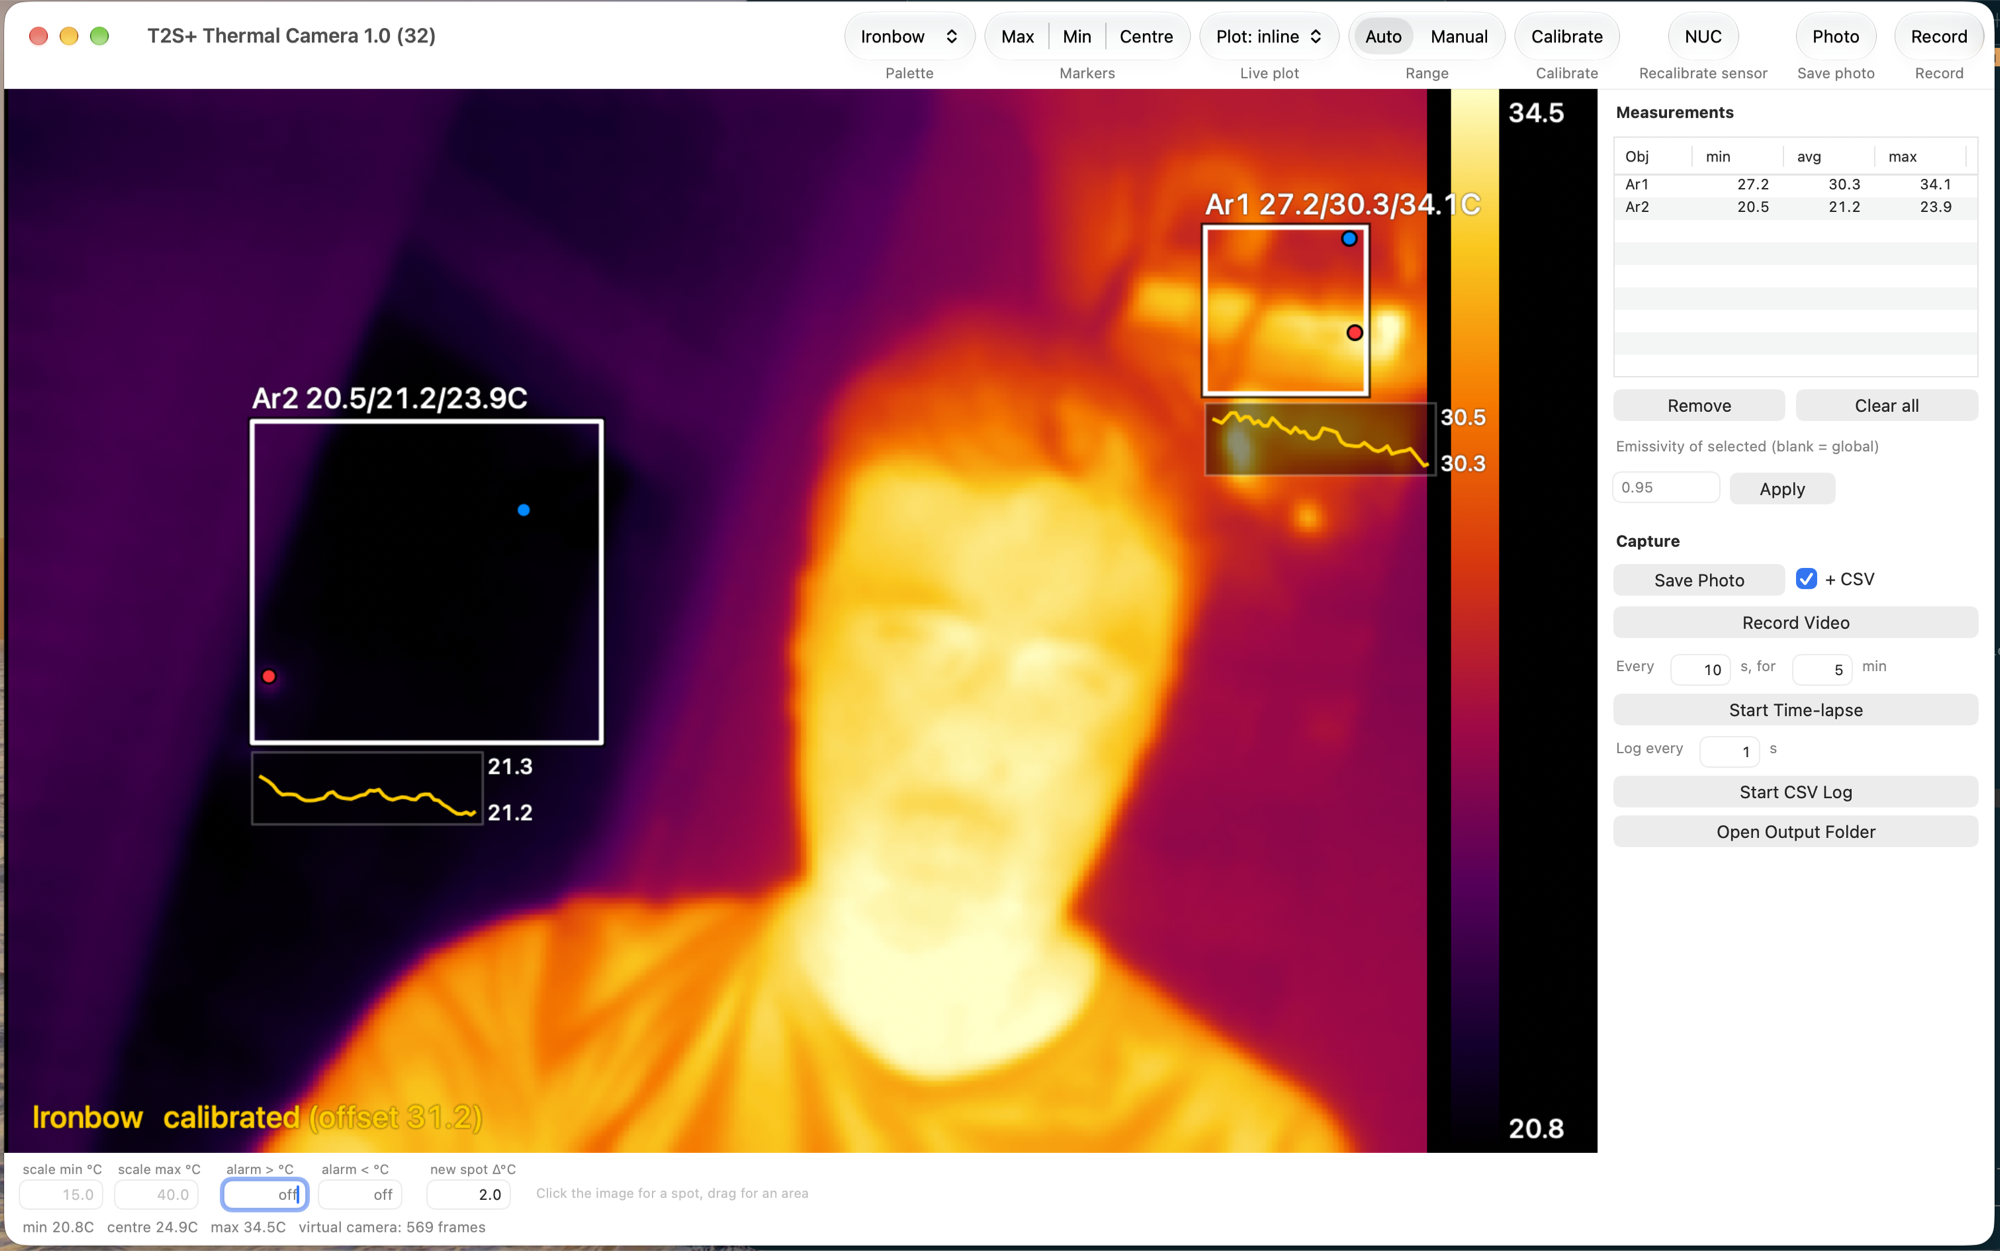
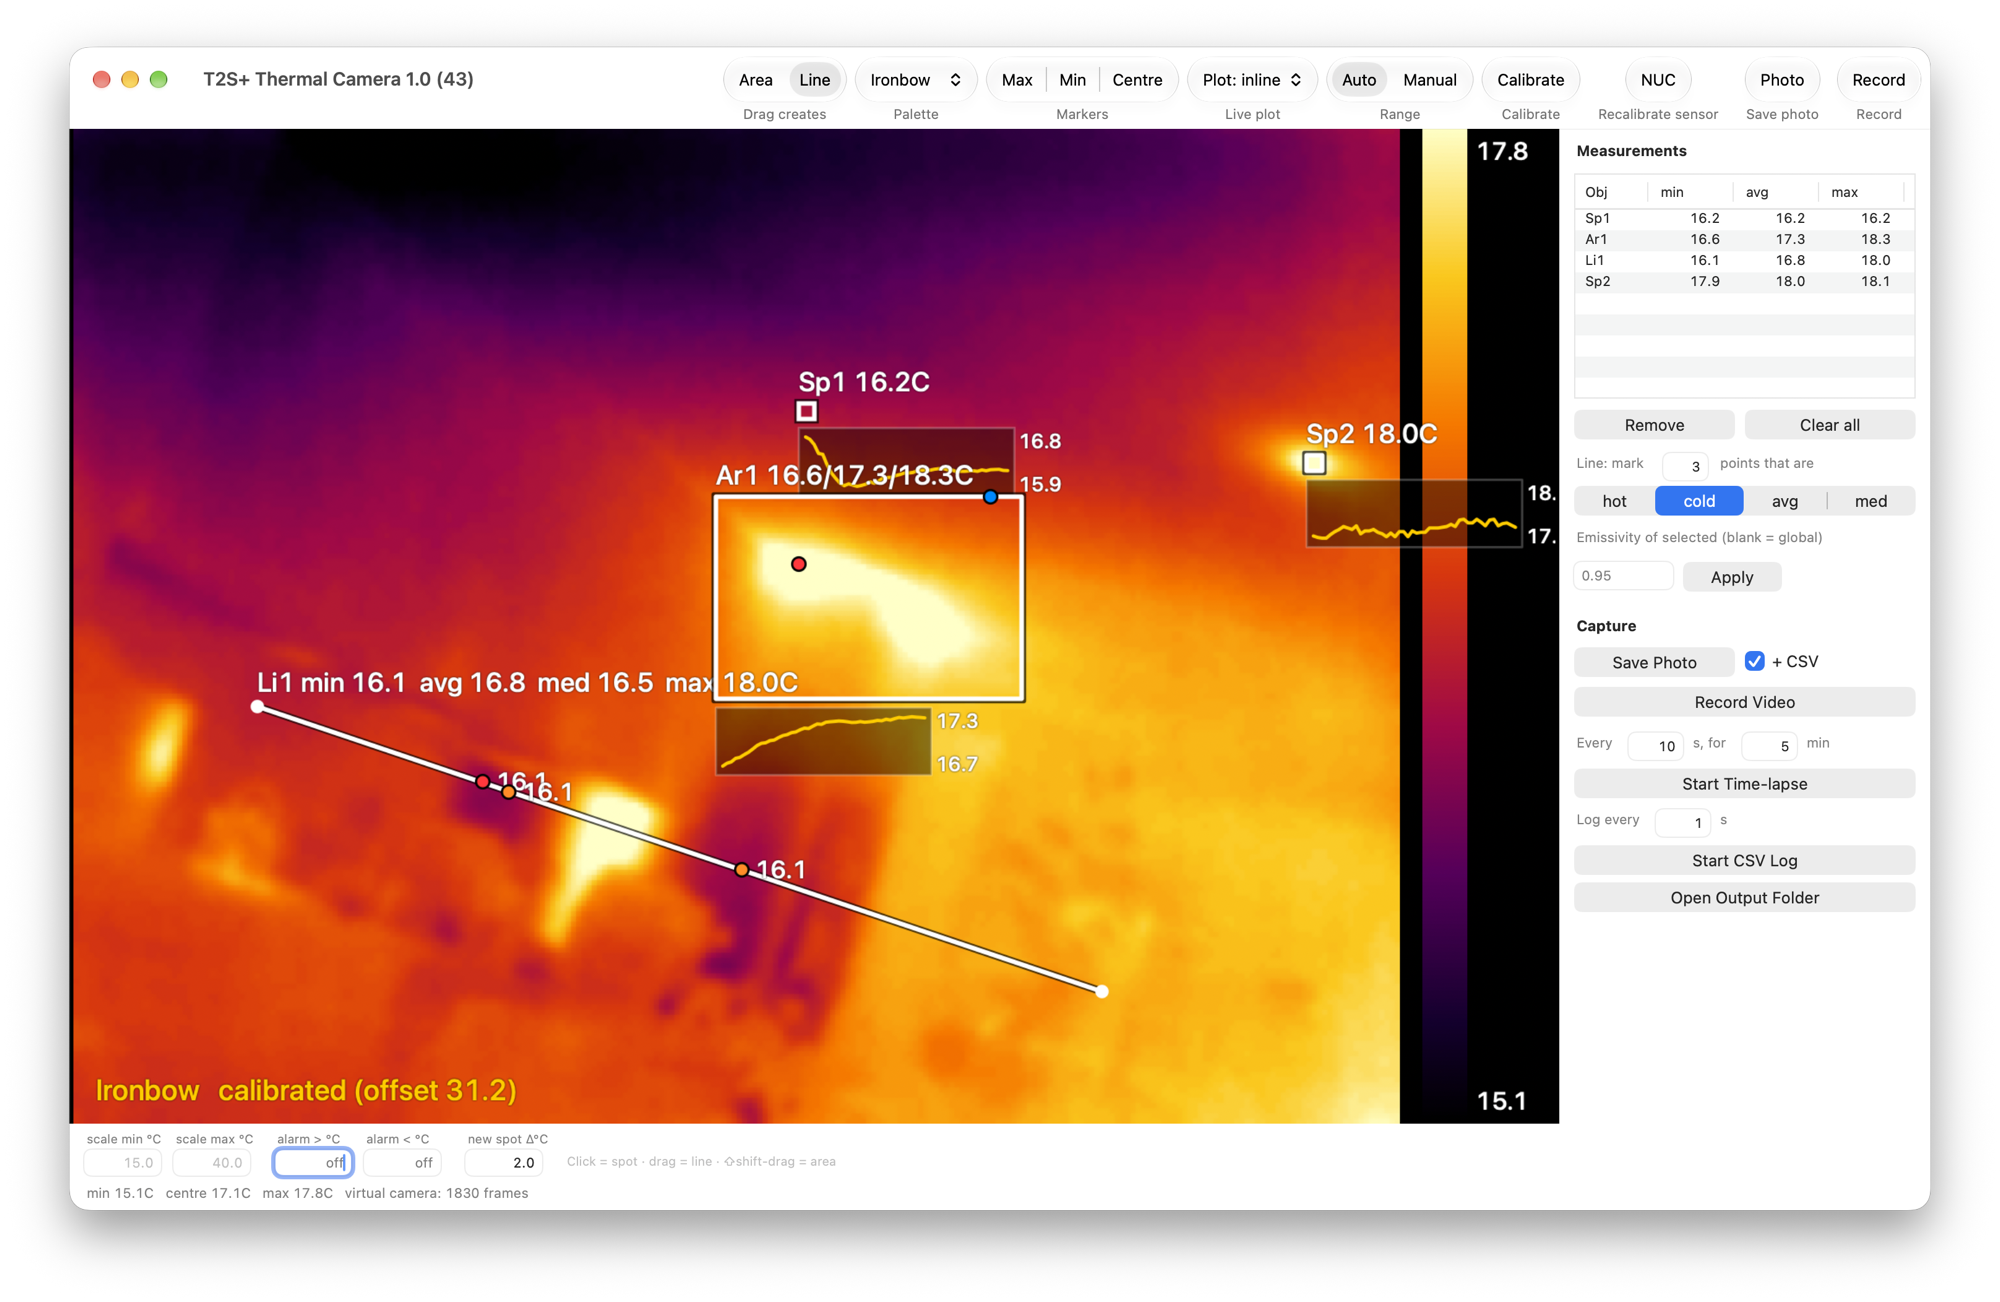
docs: screenshot showing the 1.1 features
The README image still showed the pre-1.1 window: no Area/Line selector, no
line profile, no median. Replace it with one that shows what the release
actually ships.

Also ignore a stray built T2SCamera.app under camera_extension/, and drop a
doc comment that got duplicated while editing.

diff --git a/camera_extension/T2SCameraApp/Measurements.swift b/camera_extension/T2SCameraApp/Measurements.swift
@@ -92,7 +92,6 @@ struct MeasurementResult {
 
 enum MeasurementEngine {
 
-    /// What the N markers on a line should point at.
     /// What the markers on a line point at.
     enum ExtremeMode: Int { case hottest, coldest, average, median }
 

diff --git a/README.md b/README.md
@@ -9,10 +9,11 @@ Written because the vendor ships no macOS software for this camera, and because
 the camera does not work with the obvious approaches on macOS at all (see
 [Why this isn't a simple `cv2.VideoCapture` app](#why-this-isnt-a-simple-cv2videocapture-app)).
 
-![the app: toolbar, measurement areas with inline trend plots, and the side panel](docs/app.png)
+![the app: toolbar, a line profile with its markers, measurement areas with inline trend plots, and the side panel](docs/app.png)
 
-*Two measurement areas with live sparklines, the measurement table, and the
-capture panel. What the virtual camera publishes is the image alone:*
+*A line profile with `min / avg / med / max` and its markers, two spots, an
+area, inline sparklines and the measurement table. What the virtual camera
+publishes is the image alone:*
 
 ![what the virtual camera publishes](docs/screenshot.png)
 
